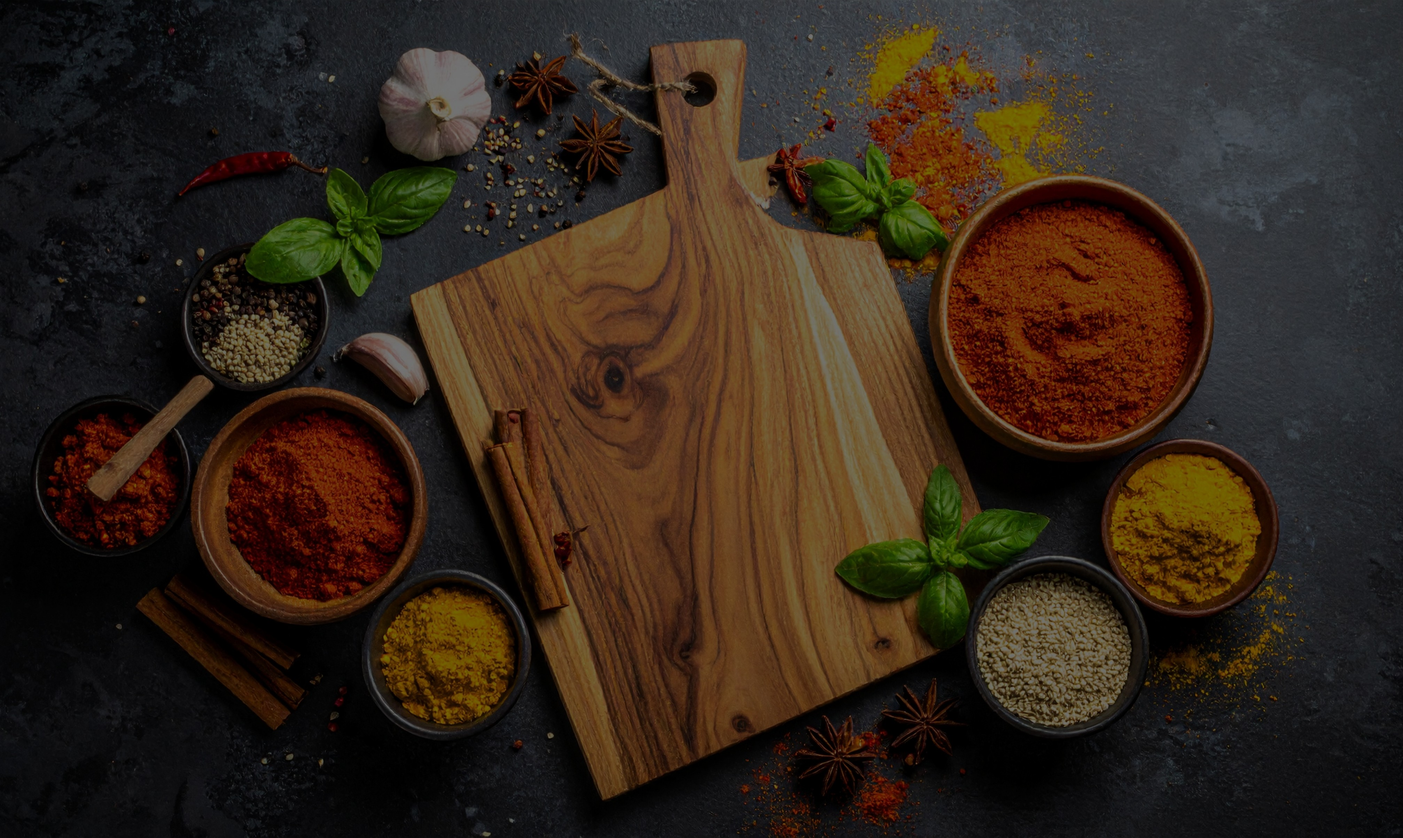
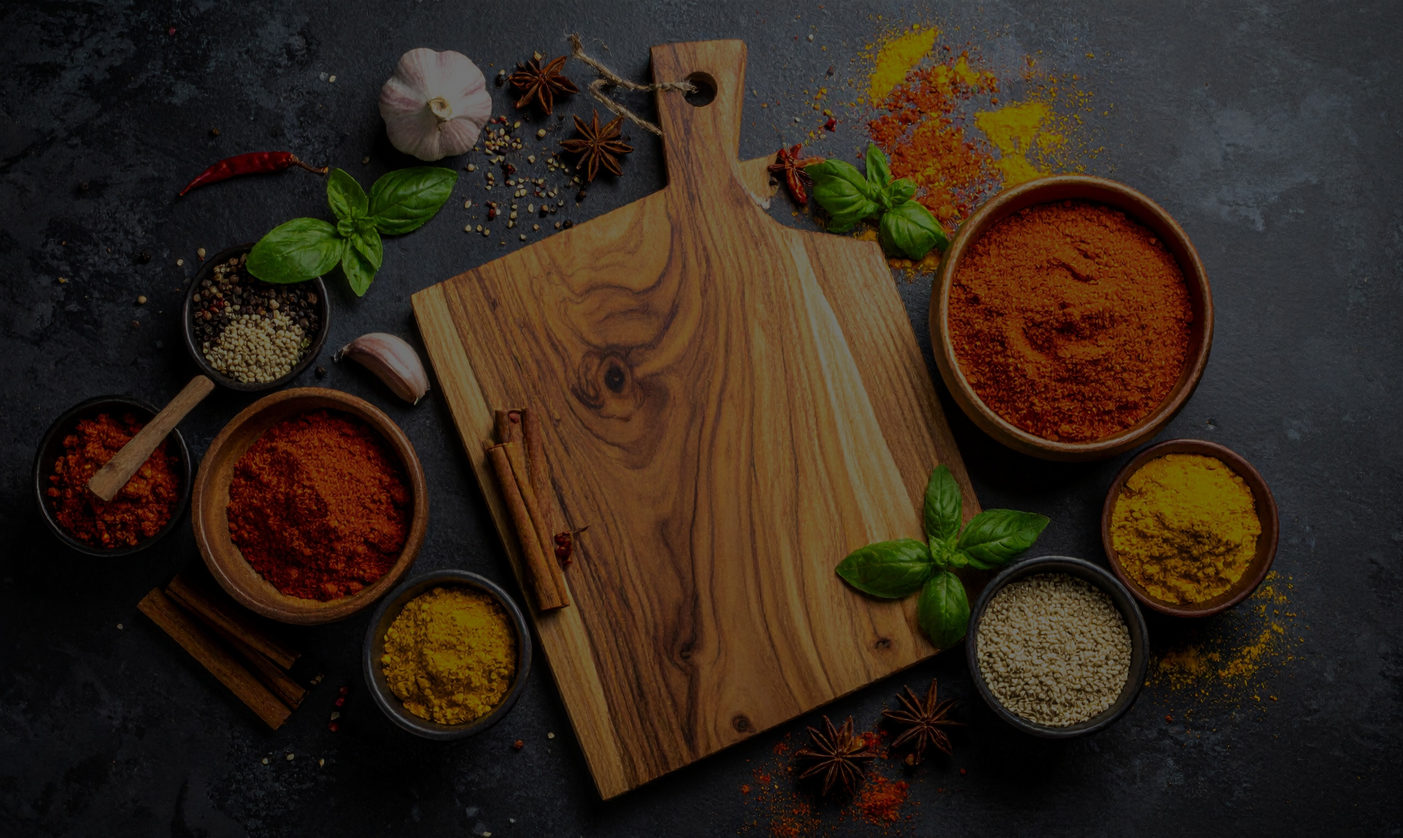
still added images

Changed region(s): [[0.1241, 0.3426, 0.2172, 0.4672], [0.3413, 0.1557, 0.3723, 0.1869]]

diff --git a/src/app/components/Abouthero-section/AboutHeroSection.css b/src/app/components/Abouthero-section/AboutHeroSection.css
@@ -1,7 +1,7 @@
 .about-container {
     color: white;
     height: 950px;
-    background-image: url('/images/About_hero_section.jpg');
+    background-image: url('/images/About_hero_section.png');
     background-size: cover;
     background-position: center;
     background-repeat: no-repeat;
